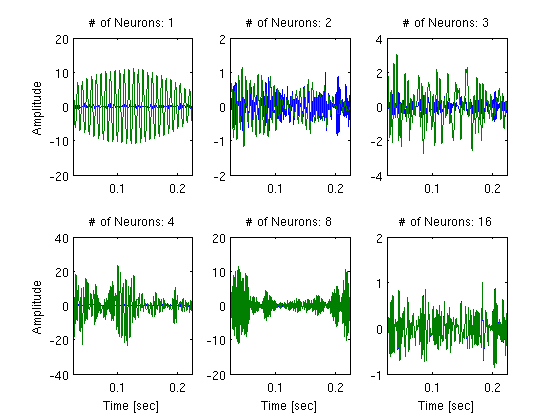
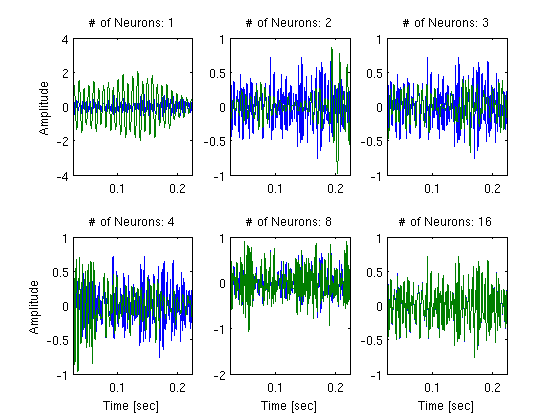
Refresh gammatone demo html files.

diff --git a/teddemos/html/gammatone_demo.html b/teddemos/html/gammatone_demo.html
@@ -6,7 +6,7 @@
    <!--
 This HTML is auto-generated from an M-file.
 To make changes, update the M-file and republish this document.
-      --><title>Time Encoding and Decoding of a Bandpass Signal with a Gammatone Filterbank and an Ensemble of Integrate-and-Fire Neurons</title><meta name="generator" content="MATLAB 7.9"><meta name="date" content="2010-03-15"><meta name="m-file" content="gammatone_demo"><style type="text/css">
+      --><title>Time Encoding and Decoding of a Bandpass Signal with a Gammatone Filterbank and an Ensemble of Integrate-and-Fire Neurons</title><meta name="generator" content="MATLAB 7.9"><meta name="date" content="2010-04-10"><meta name="m-file" content="gammatone_demo"><style type="text/css">
 
 body {
   background-color: white;
@@ -89,7 +89,7 @@ u = u/max(abs(u)); <span class="comment">% normalize signal</span>
 </pre><p>Plot the signal in the time and frequency domains:</p><pre class="codeinput">figure;subplot(1,2,1);plot(t,u);
 xlim(minmax(t));
 xlabel(<span class="string">'Time [sec]'</span>); ylabel(<span class="string">'Amplitude'</span>);
-title(<span class="string">'Signal in the time domain'</span>);
+title(<span class="string">'Signal in the Time Domain'</span>);
 
 np2 = 2^nextpow2(length(u(tr_vc)));
 U = fft(u(tr_vc),np2)/length(u(tr_vc));
@@ -98,7 +98,7 @@ f = Ft/2*linspace(0,1,np2/2+1);
 subplot(1,2,2);plot(f,2*abs(U(1:np2/2+1)));
 axis([0,Fs/2,0,1.1*max(2*abs(U(1:np2/2+1)))]);
 xlabel(<span class="string">'Frequency [Hz]'</span>); ylabel(<span class="string">'Spectrum'</span>);
-title(<span class="string">'Signal in the frequency domain'</span>);
+title(<span class="string">'Signal in the Frequency Domain'</span>);
 </pre><img vspace="5" hspace="5" src="gammatone_demo_01.png" alt=""> <h2>Filterbank Construction and Filtering of Signal<a name="3"></a></h2><pre class="codeinput">Nf = 16;              <span class="comment">% # of filters / neurons</span>
 flen = ceil(.03/dt);  <span class="comment">% length of filters</span>
 [h,fc,tg,fg] = gammatone(Nf,flen,fmin,fmax,Ft,0);
@@ -165,7 +165,7 @@ u_rec = u_rec - mean(u_rec(tr_vc));
 plot(t(tr_vc),u(tr_vc),t(tr_vc),u_rec(tr_vc),t(tr_vc),u(tr_vc)-u_rec(tr_vc));
 xlim(minmax(t(tr_vc)));
 xlabel(<span class="string">'Time [sec]'</span>); ylabel(<span class="string">'Amplitude'</span>);
-title(<span class="string">'Recovery in the time domain'</span>);
+title(<span class="string">'Recovery in the Time domain'</span>);
 legend(<span class="string">'Original'</span>,<span class="string">'Recovered'</span>,<span class="string">'Error'</span>);
 
 U_rec = fft(u_rec(tr_vc),np2)/length(u(tr_vc));
@@ -176,12 +176,13 @@ plot(f,2*abs(U(1:np2/2+1)),f,2*abs(U_rec(1:np2/2+1)), <span class="keyword">...<
      f,abs(2*abs(U(1:np2/2+1))-2*abs(U_rec(1:np2/2+1))));
 axis([0,Fs/2,0,1.1*max(2*abs(U_rec(1:np2/2+1)))]);
 xlabel(<span class="string">'Frequency [Hz]'</span>); ylabel(<span class="string">'Spectrum'</span>);
-title(<span class="string">'Recovery in the frequency domain'</span>);
+title(<span class="string">'Recovery in the Frequency domain'</span>);
 legend(<span class="string">'Original'</span>,<span class="string">'Recovered'</span>,<span class="string">'Error'</span>)
 </pre><img vspace="5" hspace="5" src="gammatone_demo_02.png" alt=""> <p>Perform sequential recovery:</p><pre class="codeinput">ur_s=zeros(Nf,length(u));
+trsvd = logspace(-3,-8,Nf);  <span class="comment">% truncate svd</span>
 <span class="keyword">for</span> i=1:Nf
     Gi=G(1:ln2(i+1),1:ln2(i+1));
-    ck_i = pinv(Gi)*q_v(1:ln2(i+1));
+    ck_i = pinv(Gi,trsvd(i))*q_v(1:ln2(i+1));
     <span class="keyword">for</span> j=1:i
         tj = round(TK(1:LN(j),j)'/dt);
         <span class="keyword">for</span> sp = 1:ln(j)
@@ -193,7 +194,7 @@ legend(<span class="string">'Original'</span>,<span class="string">'Recovered'</
 <span class="keyword">end</span>
 </pre><p>Plot all 16 recovered signals:</p><pre class="codeinput">figure;
 <span class="keyword">for</span> i=1:Nf
-    subplot(4,Nf/4,i);plot(t(tr_vc),u(tr_vc),t(tr_vc),ur_s(i,tr_vc))
+    subplot(4,ceil(Nf/4),i);plot(t(tr_vc),u(tr_vc),t(tr_vc),ur_s(i,tr_vc))
     xlim(minmax(t(tr_vc)));
     xlabel(<span class="string">'Time [sec]'</span>); ylabel(<span class="string">'Amplitude'</span>);
     title(sprintf(<span class="string">'# of Neurons: %d'</span>,i));
@@ -277,7 +278,7 @@ u = u/max(abs(u)); % normalize signal
 figure;subplot(1,2,1);plot(t,u); 
 xlim(minmax(t));
 xlabel('Time [sec]'); ylabel('Amplitude'); 
-title('Signal in the time domain');
+title('Signal in the Time Domain');
         
 np2 = 2^nextpow2(length(u(tr_vc)));
 U = fft(u(tr_vc),np2)/length(u(tr_vc));  
@@ -286,7 +287,7 @@ f = Ft/2*linspace(0,1,np2/2+1);
 subplot(1,2,2);plot(f,2*abs(U(1:np2/2+1)));
 axis([0,Fs/2,0,1.1*max(2*abs(U(1:np2/2+1)))]);
 xlabel('Frequency [Hz]'); ylabel('Spectrum'); 
-title('Signal in the frequency domain');
+title('Signal in the Frequency Domain');
 
 %% Filterbank Construction and Filtering of Signal
 
@@ -381,7 +382,7 @@ figure;subplot(1,2,1);
 plot(t(tr_vc),u(tr_vc),t(tr_vc),u_rec(tr_vc),t(tr_vc),u(tr_vc)-u_rec(tr_vc));
 xlim(minmax(t(tr_vc)));
 xlabel('Time [sec]'); ylabel('Amplitude'); 
-title('Recovery in the time domain');
+title('Recovery in the Time domain');
 legend('Original','Recovered','Error');
 
 U_rec = fft(u_rec(tr_vc),np2)/length(u(tr_vc));  
@@ -392,15 +393,16 @@ plot(f,2*abs(U(1:np2/2+1)),f,2*abs(U_rec(1:np2/2+1)), ...
      f,abs(2*abs(U(1:np2/2+1))-2*abs(U_rec(1:np2/2+1))));
 axis([0,Fs/2,0,1.1*max(2*abs(U_rec(1:np2/2+1)))]);
 xlabel('Frequency [Hz]'); ylabel('Spectrum'); 
-title('Recovery in the frequency domain');    
+title('Recovery in the Frequency domain');    
 legend('Original','Recovered','Error')
 
 %%
 % Perform sequential recovery:
 ur_s=zeros(Nf,length(u));
+trsvd = logspace(-3,-8,Nf);  % truncate svd
 for i=1:Nf
     Gi=G(1:ln2(i+1),1:ln2(i+1));
-    ck_i = pinv(Gi)*q_v(1:ln2(i+1));
+    ck_i = pinv(Gi,trsvd(i))*q_v(1:ln2(i+1));
     for j=1:i
         tj = round(TK(1:LN(j),j)'/dt);
         for sp = 1:ln(j)
@@ -415,7 +417,7 @@ end
 % Plot all 16 recovered signals:
 figure;
 for i=1:Nf
-    subplot(4,Nf/4,i);plot(t(tr_vc),u(tr_vc),t(tr_vc),ur_s(i,tr_vc))
+    subplot(4,ceil(Nf/4),i);plot(t(tr_vc),u(tr_vc),t(tr_vc),ur_s(i,tr_vc))
     xlim(minmax(t(tr_vc)));
     xlabel('Time [sec]'); ylabel('Amplitude');
     title(sprintf('# of Neurons: %d',i));
